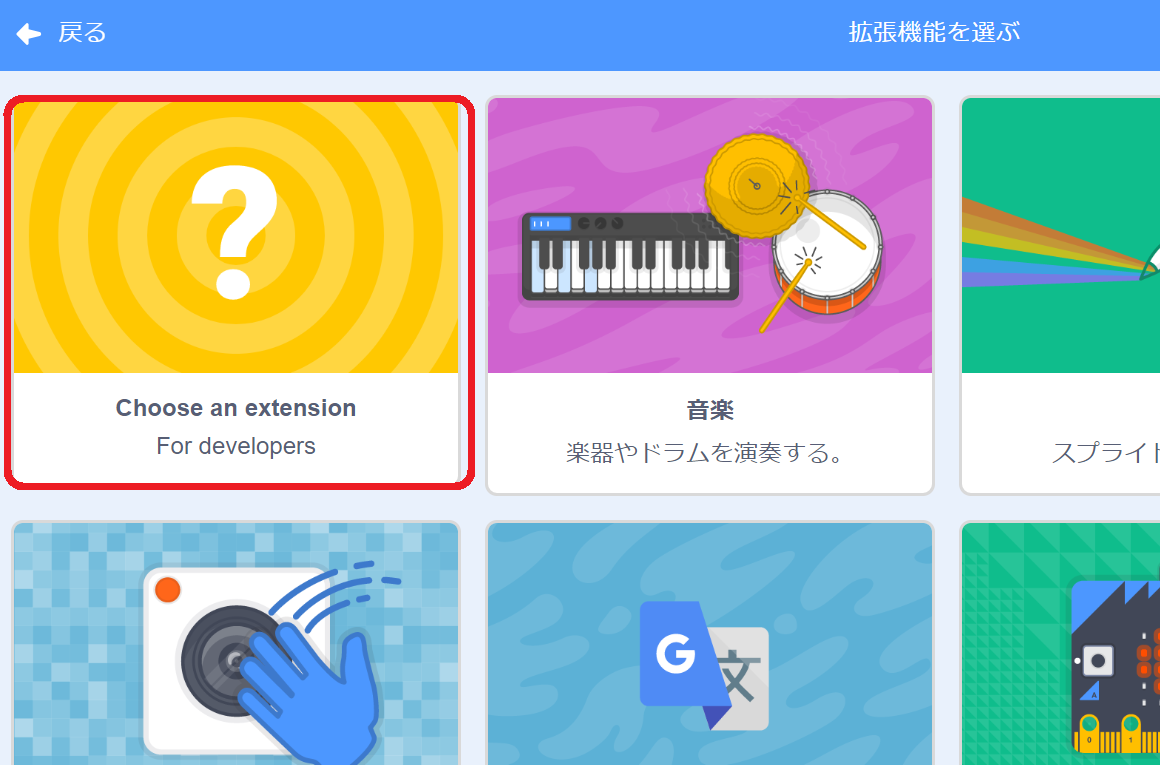
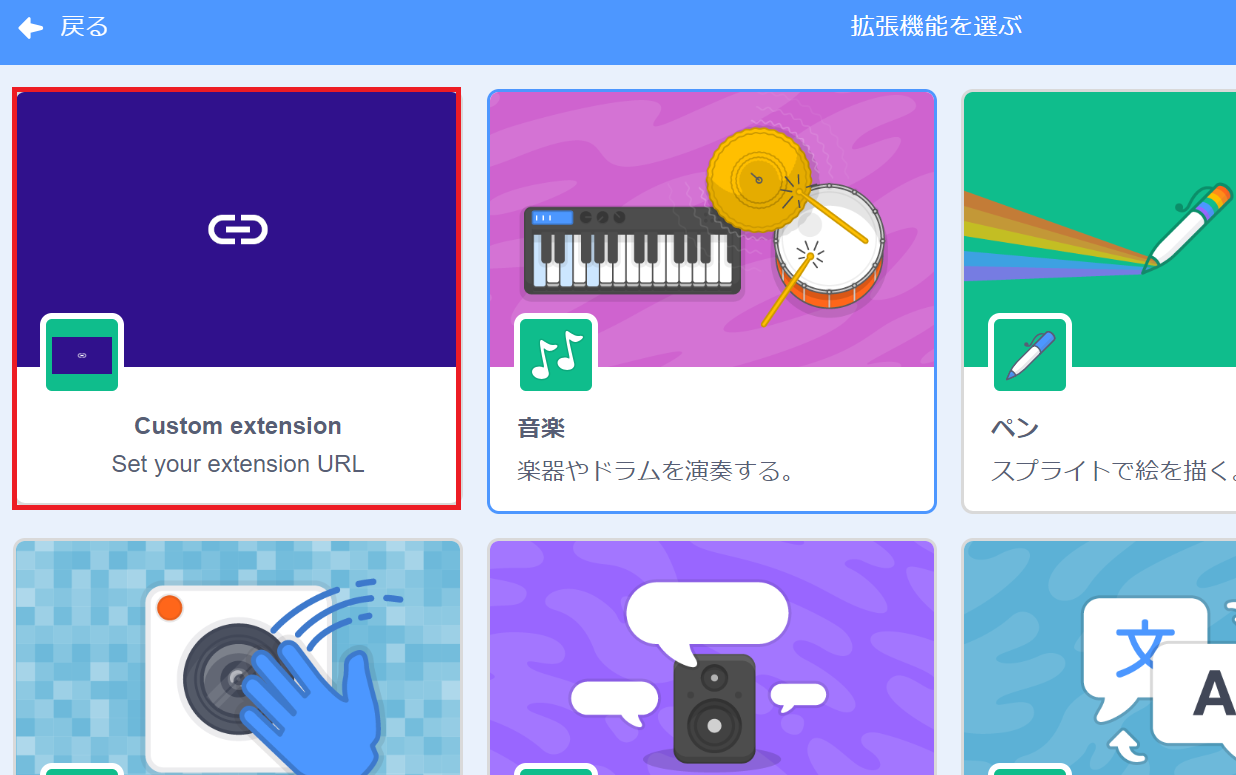
replace scratch3 link with a new one

diff --git a/docs/ja/readme.md b/docs/ja/readme.md
@@ -3,8 +3,8 @@ MyriadApiを使って、スマートフォンとScratch3をつなげて遊んで
 
 ### 準備
 - Scrach3   
-公式のScrach3β版はカスタム拡張機能を利用出来ません。ですが、SheepTesterさんが拡張機能を有効にしたScratch3を非公式にリリースしています。今回はこれを使います。  
-   [https://sheeptester.github.io/scratch-gui/](https://sheeptester.github.io/scratch-gui/)
+公式のScrach3β版はカスタム拡張機能を利用出来ません。なので、こちらに拡張機能を追加できるバージョンを準備しましたので、こちらをお使いください。  
+   [http://aknow2.com/scratch/](http://aknow2.com/scratch/)
 - 拡張ブロック  
 今回使用するScrach3の拡張ブロックです。下記のURLをメモしてください。
   https://myriadapi.github.io/myriad_scratch3_blocks/js/blocks.js
@@ -16,8 +16,8 @@ MyriadApiを使って、スマートフォンとScratch3をつなげて遊んで
 ### やってみよう
 ここでは「光センサーの値を読み取り、スクラッチキャットにしゃべらせる」という事をやります。 
 
-1. 拡張機能に対応したScratch3を↓URLから開いてください  
-   [https://sheeptester.github.io/scratch-gui/](https://sheeptester.github.io/scratch-gui/)
+1. 拡張機能に対応したScratch3を↓のURLから開いてください  
+   [http://aknow2.com/scratch/](http://aknow2.com/scratch/)
 1. Scratchの左下にある拡張追加をクリックしてください。  
 <img src="./images/addExtension.PNG" width="400">
 1. 拡張機能のChoose Extensionを選択してください。(SHeep testerさんのScrach3の場合)
